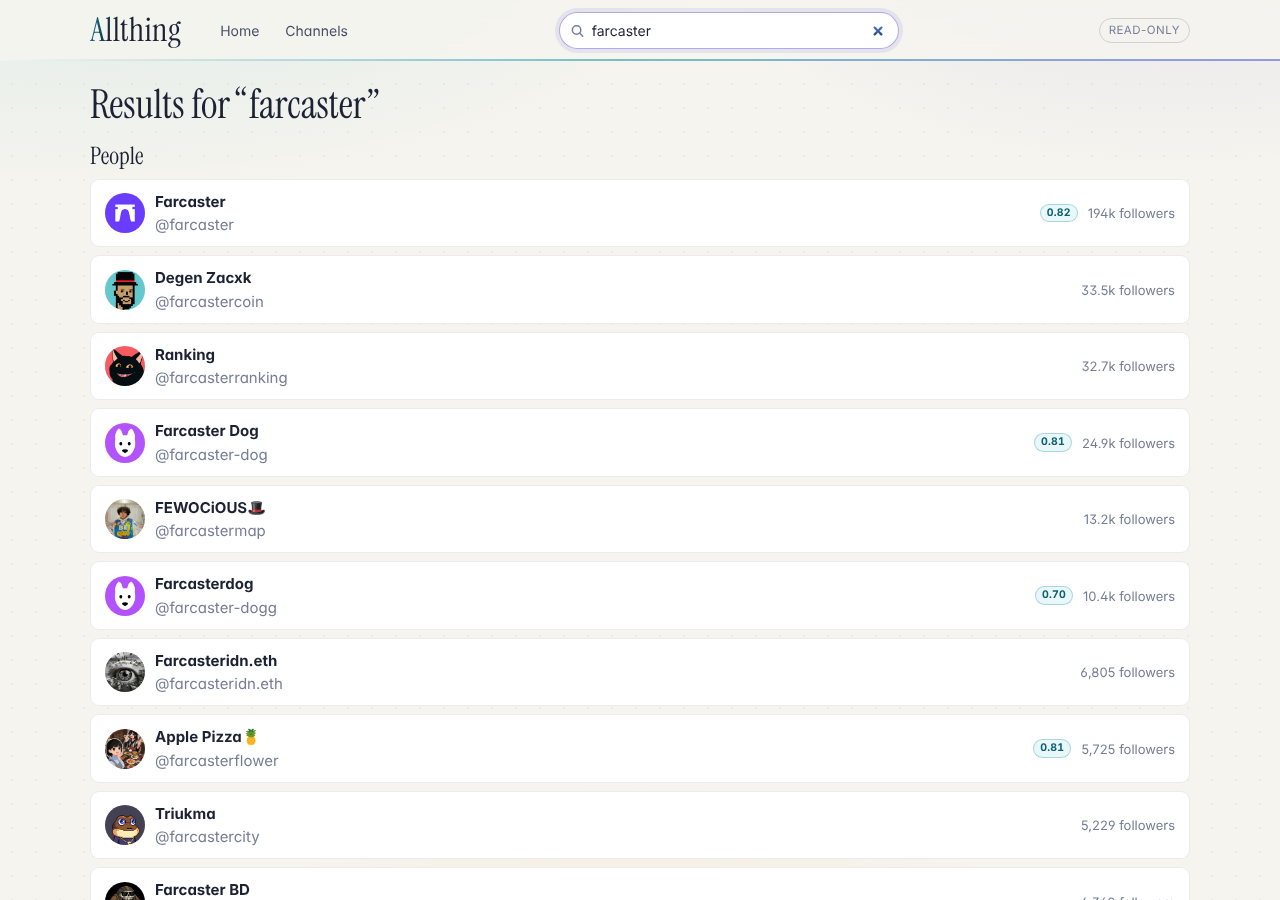
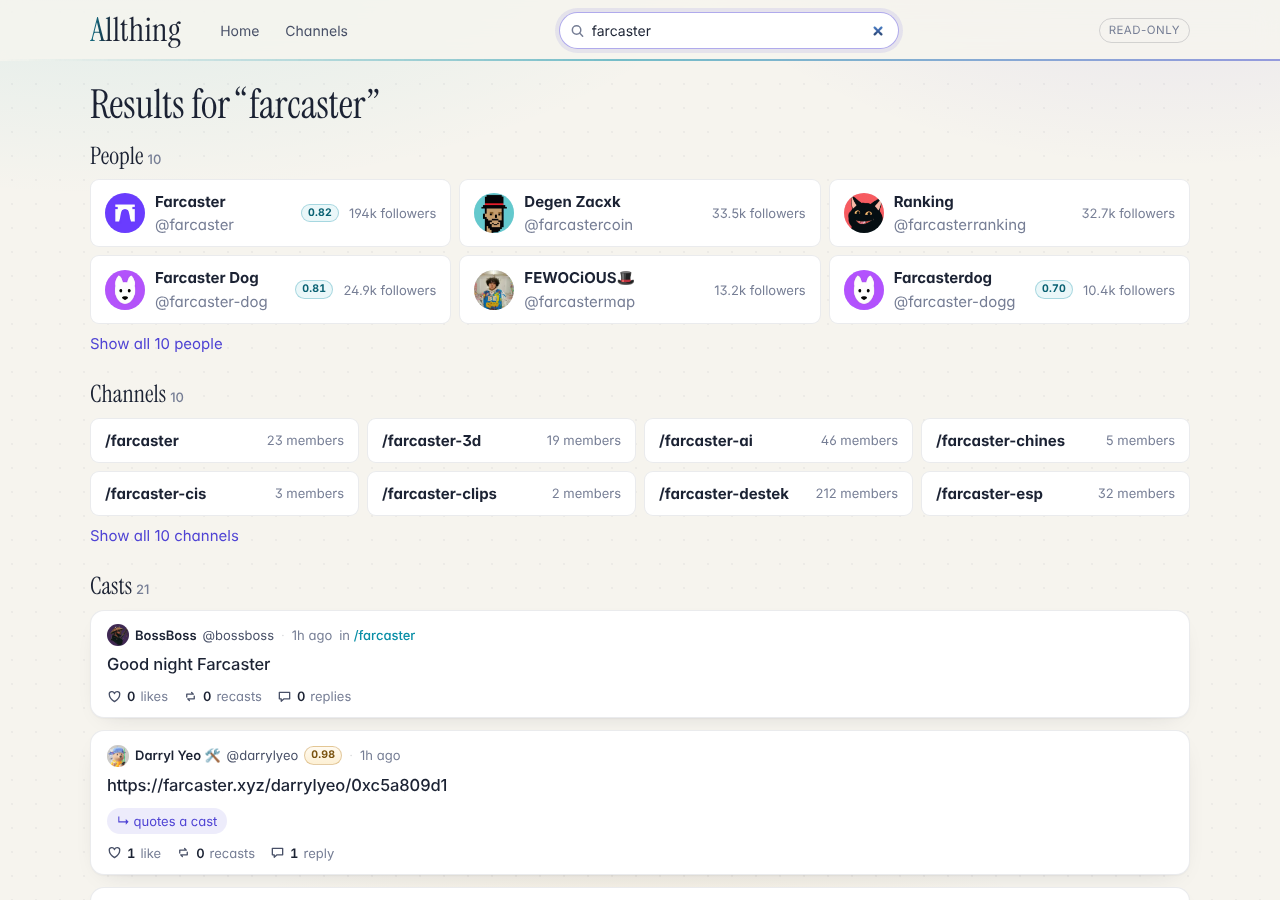
fix(search): cap people and channels so casts stay near the top (#7)
Search listed every matching person (often 10-20 rows) before channels
and casts, so casts started far below the fold. Show the first 6 people
and 8 channels in responsive columns with a "Show all N" button and a
count per group. Scope the group heading style to the group's own h2;
it was also restyling every cast title in the results.

diff --git a/e2e/allthing.spec.ts b/e2e/allthing.spec.ts
@@ -553,7 +553,19 @@ test.describe("threads and navigation", () => {
     await expect(page.getByRole("region", { name: "Channels" }).locator("li").first()).toBeVisible();
     await expect(page.getByRole("region", { name: "Casts" }).locator(".cast-card").first()).toBeVisible();
     await expect(box).toHaveValue("farcaster");
+    // Long groups are capped so casts stay near the top; "Show all" expands.
+    const people = page.getByRole("region", { name: "People" });
+    expect(await people.locator(".person").count()).toBeLessThanOrEqual(6);
+    const casts = await page.getByRole("region", { name: "Casts" }).boundingBox();
+    expect(casts!.y).toBeLessThan(1400);
     await shoot(page, "search");
+    const showAll = people.getByRole("button", { name: /^Show all \d+ people$/ });
+    if (await showAll.count()) {
+      const total = Number((await showAll.innerText()).match(/\d+/)![0]);
+      await showAll.click();
+      await expect(people.locator(".person")).toHaveCount(total);
+      await expect(showAll).toHaveCount(0);
+    }
   });
 
   test("channels and the directory render", async ({ page }) => {

diff --git a/style/allthing.css b/style/allthing.css
@@ -2043,7 +2043,7 @@ code {
   margin: 0 0 26px;
 }
 
-.results-group h2 {
+.results-group > h2 {
   font: 400 24px/1.1 var(--font-display);
   margin: 0 0 10px;
 }
@@ -2055,6 +2055,24 @@ code {
   padding: 0;
   display: grid;
   gap: 8px;
+}
+
+.people {
+  grid-template-columns: repeat(auto-fill, minmax(min(100%, 300px), 1fr));
+}
+
+.channel-results {
+  grid-template-columns: repeat(auto-fill, minmax(min(100%, 220px), 1fr));
+}
+
+.results-group > h2 .count {
+  font: 500 13px/1 var(--font-ui);
+  color: var(--ink-3);
+  margin-left: 4px;
+}
+
+.show-all {
+  margin-top: 10px;
 }
 
 .person,
@@ -2083,6 +2101,16 @@ code {
   display: flex;
   flex-direction: column;
   min-width: 0;
+}
+
+.person-text > * {
+  overflow: hidden;
+  text-overflow: ellipsis;
+  white-space: nowrap;
+}
+
+.person .small {
+  white-space: nowrap;
 }
 
 .channel-results img {

diff --git a/crates/allthing-web/src/pages/search.rs b/crates/allthing-web/src/pages/search.rs
@@ -16,6 +16,10 @@ use crate::components::chips::{Avatar, ScoreBadge};
 use crate::components::layout::ErrorPanel;
 use crate::util::{channel_href, set_title, user_href};
 
+/// People and channels shown before "Show all", so casts stay near the top.
+const PEOPLE_SHOWN: usize = 6;
+const CHANNELS_SHOWN: usize = 8;
+
 #[component]
 pub fn SearchPage() -> impl IntoView {
     let query = use_query_map();
@@ -54,16 +58,23 @@ pub fn SearchPage() -> impl IntoView {
                 let payload: Arc<SearchPayload> = data;
                 let notes: Notes = Arc::new(payload.notes.clone());
                 let nothing = payload.users.is_empty() && payload.channels.is_empty() && payload.casts.is_empty();
+                let all_people = RwSignal::new(false);
+                let all_channels = RwSignal::new(false);
+                let people_total = payload.users.len();
+                let channels_total = payload.channels.len();
+                let users = payload.users.clone();
+                let channels = payload.channels.clone();
+                let people_notes = notes.clone();
                 view! {
                     <section class="search-page">
                         <h1 class="page-title">"Results for “"{term}"”"</h1>
                         {nothing.then(|| view! { <p class="empty">"Nothing found. Try another word or a username."</p> })}
                         {(!payload.users.is_empty()).then(|| view! {
                             <section class="results-group" aria-label="People">
-                                <h2>"People"</h2>
+                                <h2>"People" <span class="count">{people_total}</span></h2>
                                 <ul class="people">
-                                    {payload.users.iter().map(|u| {
-                                        let score = notes.scores.get(&u.fid).copied().unwrap_or(0);
+                                    {move || users.iter().take(if all_people.get() { usize::MAX } else { PEOPLE_SHOWN }).map(|u| {
+                                        let score = people_notes.scores.get(&u.fid).copied().unwrap_or(0);
                                         view! {
                                             <li class="person">
                                                 <a href=user_href(&u.username)>
@@ -79,13 +90,14 @@ pub fn SearchPage() -> impl IntoView {
                                         }
                                     }).collect_view()}
                                 </ul>
+                                <ShowAll shown=all_people total=people_total limit=PEOPLE_SHOWN noun="people"/>
                             </section>
                         })}
                         {(!payload.channels.is_empty()).then(|| view! {
                             <section class="results-group" aria-label="Channels">
-                                <h2>"Channels"</h2>
+                                <h2>"Channels" <span class="count">{channels_total}</span></h2>
                                 <ul class="channel-results">
-                                    {payload.channels.iter().map(|c| view! {
+                                    {move || channels.iter().take(if all_channels.get() { usize::MAX } else { CHANNELS_SHOWN }).map(|c| view! {
                                         <li>
                                             <a href=channel_href(&c.id)>
                                                 {c.image_url.clone().map(|src| view! { <img src=resized_image_url(&src, ImageSize::Avatar) alt="" width="28" height="28" loading="lazy" referrerpolicy="no-referrer"/> })}
@@ -95,11 +107,12 @@ pub fn SearchPage() -> impl IntoView {
                                         </li>
                                     }).collect_view()}
                                 </ul>
+                                <ShowAll shown=all_channels total=channels_total limit=CHANNELS_SHOWN noun="channels"/>
                             </section>
                         })}
                         {(!payload.casts.is_empty()).then(|| view! {
                             <section class="results-group" aria-label="Casts">
-                                <h2>"Casts"</h2>
+                                <h2>"Casts" <span class="count">{payload.casts.len()}</span></h2>
                                 <CastList casts=payload.casts.clone() notes=notes.clone()/>
                             </section>
                         })}
@@ -109,4 +122,18 @@ pub fn SearchPage() -> impl IntoView {
             }
         }
     }
+}
+
+/// "Show all N people" under a capped group; disappears once pressed.
+#[component]
+fn ShowAll(shown: RwSignal<bool>, total: usize, limit: usize, noun: &'static str) -> impl IntoView {
+    (total > limit).then(|| {
+        view! {
+            <Show when=move || !shown.get()>
+                <button type="button" class="link-button show-all" on:click=move |_| shown.set(true)>
+                    {format!("Show all {total} {noun}")}
+                </button>
+            </Show>
+        }
+    })
 }

diff --git a/CHANGELOG.md b/CHANGELOG.md
@@ -5,6 +5,10 @@ All notable changes to Allthing are recorded here. The format follows [Keep a Ch
 
 ## [Unreleased]
 
+### Changed
+
+- Search results stay compact: the first 6 people and 8 channels, laid out in columns with a count on each group, and "Show all" to see the rest. Casts start above the fold, and their text no longer takes the group headings' display font.
+
 ### Fixed
 
 - Popovers (who liked, recasted, replies) open toward the side with more room, so the replies preview on the first card no longer slides under the sticky header. Their height fits the space available, and the card with an open popover sits above the next card instead of under it.
